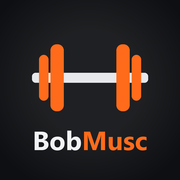
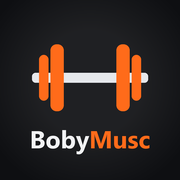
Renommage en BobyMusc

Changed region(s): [[0.1667, 0.7222, 0.8333, 0.8611]]

diff --git a/app.js b/app.js
@@ -1,8 +1,8 @@
 'use strict';
-/* BobMusc — carnet de musculation 100 % gratuit. Toutes les données restent sur le téléphone. */
+/* BobyMusc — carnet de musculation 100 % gratuit. Toutes les données restent sur le téléphone. */
 
-const VERSION = '1.0.0';
-const APP_URL = 'https://erasko91.github.io/bobmusc/';
+const VERSION = '1.0.1';
+const APP_URL = 'https://erasko91.github.io/bobymusc/';
 const KEY = 'bobmusc-data-v1';
 const LB = 2.20462;
 const DAY = 86400000;
@@ -307,7 +307,7 @@ function vHome() {
   const name = db.settings.name ? esc(db.settings.name) : 'champion';
   const list = ws.slice(0, ui.histLimit).map(workoutCard).join('');
   return {
-    title: '<span class="logo">Bob<b>Musc</b></span>',
+    title: '<span class="logo">Boby<b>Musc</b></span>',
     actions: `<a class="icon" href="#/settings" aria-label="Réglages">⚙</a>`,
     html: `<p class="hello">Salut ${name} 👋</p>
     ${db.active ? '' : `<button class="btn primary block big" data-a="start-empty">＋ Démarrer une séance</button>`}
@@ -547,7 +547,7 @@ function vProfile() {
       <div class="menu-links">
         <a class="list-item" href="#/measures">📏 <span class="grow">Mesures du corps</span><span class="muted">›</span></a>
         <a class="list-item" href="#/settings">⚙ <span class="grow">Réglages et sauvegarde</span><span class="muted">›</span></a>
-        <button class="list-item" data-a="share-app">📤 <span class="grow">Partager BobMusc à un ami</span><span class="muted">›</span></button>
+        <button class="list-item" data-a="share-app">📤 <span class="grow">Partager BobyMusc à un ami</span><span class="muted">›</span></button>
       </div>`,
   };
 }
@@ -620,10 +620,10 @@ function vSettings() {
         <input type="file" id="import-file" accept=".json,application/json" hidden>
       </div>
       <div class="card">
-        <button class="btn ghost block" data-a="share-app">📤 Partager BobMusc à un ami</button>
+        <button class="btn ghost block" data-a="share-app">📤 Partager BobyMusc à un ami</button>
         <button class="btn danger-ghost block" data-a="wipe">Effacer toutes mes données</button>
       </div>
-      <p class="muted small center">BobMusc ${VERSION} · 100 % gratuit, sans pub, sans compte</p>`,
+      <p class="muted small center">BobyMusc ${VERSION} · 100 % gratuit, sans pub, sans compte</p>`,
   };
 }
 
@@ -647,7 +647,7 @@ function renderOnboarding() {
   $('#restbar').hidden = true;
   $('#view').innerHTML = `<div class="ob">
     <div class="ob-top">
-      ${ob.step ? `<button class="icon back" data-a="ob-back" aria-label="Retour">‹</button>` : '<span class="logo">Bob<b>Musc</b></span>'}
+      ${ob.step ? `<button class="icon back" data-a="ob-back" aria-label="Retour">‹</button>` : '<span class="logo">Boby<b>Musc</b></span>'}
       <div class="ob-progress">${OB_STEPS.map((_, i) => `<span class="${i <= ob.step ? 'on' : ''}"></span>`).join('')}</div>
       <span class="muted small">${ob.step + 1}/${OB_STEPS.length}</span>
     </div>
@@ -901,7 +901,7 @@ let afterNav = null;
 function celebrate(w) {
   const n = db.workouts.length, t = workoutTotals(w);
   openSheet(`<div class="celebrate"><div class="big-emoji">💪</div><h2>Bravo !</h2>
-    <p class="muted">C’est ta ${n === 1 ? '1re' : n + 'e'} séance avec BobMusc.</p>
+    <p class="muted">C’est ta ${n === 1 ? '1re' : n + 'e'} séance avec BobyMusc.</p>
     <div class="stats3">${stat('Durée', fmtDur(w.end - w.start))}${stat('Volume', fmtW(t.vol))}${stat('Séries', t.sets)}</div>
     ${w.prs.length ? `<h3>🏆 ${w.prs.length} nouveau${w.prs.length > 1 ? 'x' : ''} record${w.prs.length > 1 ? 's' : ''} !</h3>
       <div class="pr-list">${w.prs.map(p => `<span class="badge">${esc(ex(p.ex).name)} · ${esc(p.label)} : ${esc(PR_KEYS[ex(p.ex).type].find(k => k[0] === p.k)[2](p.v))}</span>`).join('')}</div>` : ''}
@@ -955,12 +955,12 @@ let customCb = null;
 
 /* ---------- Sauvegarde fichier ---------- */
 async function exportData() {
-  const name = `bobmusc-sauvegarde-${isoDay(Date.now())}.json`;
+  const name = `bobymusc-sauvegarde-${isoDay(Date.now())}.json`;
   const blob = new Blob([JSON.stringify(db)], { type: 'application/json' });
   try {
     const file = new File([blob], name, { type: 'application/json' });
     if (navigator.canShare && navigator.canShare({ files: [file] }) && /Android|iPhone|iPad/i.test(navigator.userAgent)) {
-      await navigator.share({ files: [file], title: 'Sauvegarde BobMusc' });
+      await navigator.share({ files: [file], title: 'Sauvegarde BobyMusc' });
       return;
     }
   } catch (e) { if (e.name === 'AbortError') return; }
@@ -978,7 +978,7 @@ function importData(file) {
   rd.onload = () => {
     let d;
     try { d = JSON.parse(rd.result); } catch (e) { d = null; }
-    if (!d || !Array.isArray(d.workouts)) { toast('Ce fichier n’est pas une sauvegarde BobMusc'); return; }
+    if (!d || !Array.isArray(d.workouts)) { toast('Ce fichier n’est pas une sauvegarde BobyMusc'); return; }
     confirmBox(`Remplacer tes données actuelles par cette sauvegarde (${d.workouts.length} séances) ?`, 'Importer', () => {
       localStorage.setItem(KEY, JSON.stringify(d));
       load(); rebuildEx(); applyTheme();
@@ -990,7 +990,7 @@ function importData(file) {
   rd.readAsText(file);
 }
 async function shareApp() {
-  const data = { title: 'BobMusc', text: 'BobMusc, mon appli de muscu 100 % gratuite. Ouvre le lien puis « Ajouter à l’écran d’accueil » :', url: APP_URL };
+  const data = { title: 'BobyMusc', text: 'BobyMusc, mon appli de muscu 100 % gratuite. Ouvre le lien puis « Ajouter à l’écran d’accueil » :', url: APP_URL };
   try {
     if (navigator.share) { await navigator.share(data); return; }
   } catch (e) { if (e.name === 'AbortError') return; }
@@ -1190,7 +1190,7 @@ function shareWorkout(w) {
   const lines = [`💪 ${w.name} · ${fmtDate(w.start)}`, `⏱ ${fmtDur(w.end - w.start)} · 🏋 ${fmtW(t.vol)}`, ''];
   for (const e of w.exercises) lines.push(`${ex(e.ex).name} : ${e.sets.map(s => fmtSet(s, ex(e.ex).type)).join(', ')}`);
   if (w.prs && w.prs.length) lines.push('', `🏆 ${w.prs.length} record(s) !`);
-  lines.push('', 'Noté avec BobMusc : ' + APP_URL);
+  lines.push('', 'Noté avec BobyMusc : ' + APP_URL);
   const text = lines.join('\n');
   if (navigator.share) navigator.share({ text }).catch(() => {});
   else navigator.clipboard.writeText(text).then(() => toast('Séance copiée ✔'), () => toast('Partage impossible'));

diff --git a/index.html b/index.html
@@ -3,13 +3,13 @@
 <head>
 <meta charset="utf-8">
 <meta name="viewport" content="width=device-width, initial-scale=1, viewport-fit=cover">
-<title>BobMusc</title>
-<meta name="description" content="BobMusc, carnet de musculation 100 % gratuit : séances, programmes, records et progression.">
+<title>BobyMusc</title>
+<meta name="description" content="BobyMusc, carnet de musculation 100 % gratuit : séances, programmes, records et progression.">
 <meta name="theme-color" content="#0E0F12">
 <meta name="apple-mobile-web-app-capable" content="yes">
 <meta name="mobile-web-app-capable" content="yes">
 <meta name="apple-mobile-web-app-status-bar-style" content="black-translucent">
-<meta name="apple-mobile-web-app-title" content="BobMusc">
+<meta name="apple-mobile-web-app-title" content="BobyMusc">
 <link rel="manifest" href="manifest.webmanifest">
 <link rel="icon" href="icons/icon-192.png">
 <link rel="apple-touch-icon" href="icons/apple-touch-icon.png">

diff --git a/sw.js b/sw.js
@@ -1,6 +1,6 @@
-/* BobMusc — permet à l'appli de marcher sans internet.
+/* BobyMusc — permet à l'appli de marcher sans internet.
    Changer CACHE à chaque nouvelle version pour que les téléphones la récupèrent. */
-const CACHE = 'bobmusc-1.0.0';
+const CACHE = 'bobymusc-1.0.1';
 const FILES = ['./', 'index.html', 'styles.css', 'app.js', 'exercises.js', 'manifest.webmanifest',
   'icons/icon-192.png', 'icons/icon-512.png', 'icons/apple-touch-icon.png'];
 

diff --git a/exercises.js b/exercises.js
@@ -1,5 +1,5 @@
 'use strict';
-/* Bibliothèque d'exercices de BobMusc.
+/* Bibliothèque d'exercices de BobyMusc.
    type : wr = poids + reps, bw = reps seulement, time = durée (secondes), cardio = distance + minutes */
 
 const MUSCLES = ['Pectoraux', 'Dos', 'Épaules', 'Biceps', 'Triceps', 'Avant-bras', 'Abdos', 'Quadriceps',

diff --git a/styles.css b/styles.css
@@ -1,4 +1,4 @@
-/* BobMusc — styles */
+/* BobyMusc — styles */
 :root {
   --accent: #FF6B1A;
   --bg: #0E0F12; --card: #181A1F; --card2: #22252C; --line: #2C3038;
